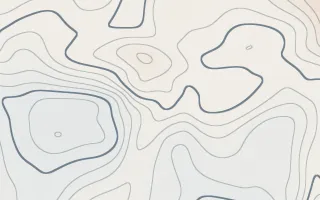
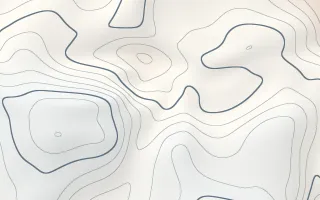
Contour: sharp hairlines at the screen's full density
Contour now renders at the screen's pixel density (up to 2x, like
photos) and sizes its lines in real pixels, so minor contours are true
hairlines and index lines crisp. A faint relief shading lit from the
upper left gives the map depth. Measured at 2x: the same cost as Tarn.

diff --git a/src/backdrop/scenes/index.ts b/src/backdrop/scenes/index.ts
@@ -915,18 +915,26 @@ const contour: Scene = {
   colors: ['#f4f1ea', '#dfe7ec', '#3d5468', '#e9b99c'],
   base: '#f1eee7',
   speed: 0.12,
-  resolution: 0.75,
+  // Hairlines need every pixel the screen has (like a photo).
+  resolution: Math.min(globalThis.devicePixelRatio || 1, 2),
   fragment: /* glsl */ `
 // A topographic map whose land slowly reshapes: contour lines flow, merge
-// and part; every fifth line is drawn bolder, as on a real map.
+// and part; every fifth line is drawn bolder, as on a real map. Drawn at
+// the screen's full pixel density, so the lines are true hairlines.
 
 float terrain(vec2 p, float t) {
   vec2 a = p * 1.1 + vec2(0.05 * t, -0.03 * t);
   vec2 b = p * 1.4 + vec2(-0.04 * t, 0.025 * t) + 7.0;
-  // Smooth land: three octaves, the finest gentle, and a slow warp.
   // Exact noise: thin lines show every kink of the faster texture.
   a += 0.4 * vec2(noise(b), noise(b + 3.0));
   return 0.7 * noise(a) + 0.32 * noise(a * 2.1 + 1.7) + 0.1 * noise(a * 4.3 + 5.1);
+}
+
+// A line of the given width in pixels along the integer values of f.
+float isoline(float f, float px) {
+  float w = fwidth(f);
+  float d = abs(fract(f + 0.5) - 0.5) / max(w, 1e-5);
+  return 1.0 - smoothstep(px * 0.5 - 0.5, px * 0.5 + 0.5, d);
 }
 
 vec3 scene(vec2 uv, float t) {
@@ -935,18 +943,21 @@ vec3 scene(vec2 uv, float t) {
   vec3 col = uColors[0];
   col = mix(col, uColors[1], 0.55 * smoothstep(0.0, -0.4, h));
   col = mix(col, uColors[3], 0.35 * smoothstep(0.05, 0.45, h));
+  // Relief: slopes facing the light from the upper left a touch lighter,
+  // the far side a touch darker, as on a well-made survey map.
+  vec2 slope = vec2(dFdx(h), dFdy(h)) * uResolution.y;
+  float relief = clamp(dot(slope, vec2(0.6, -0.8)) * 0.06, -0.06, 0.06);
+  col *= 1.0 - relief;
 
+  // Pixel widths scale with density, so lines look the same on any screen.
+  float px = max(uResolution.y / 900.0, 1.0);
   float f = h * 15.0;
-  float w = fwidth(f);
-  float line = 1.0 - smoothstep(0.0, w * 1.2, abs(fract(f + 0.5) - 0.5) - w * 0.25);
-  // Index lines: every fifth, bolder.
-  float g = f / 5.0;
-  float gw = fwidth(g);
-  float index = 1.0 - smoothstep(0.0, gw * 1.2, abs(fract(g + 0.5) - 0.5) - gw * 0.9);
-  float ink = max(line * 0.32, index * 0.7);
+  float minor = isoline(f, 1.0 * px);
+  float index = isoline(f / 5.0, 2.2 * px);
+  float ink = max(minor * 0.42, index * 0.78);
   col = mix(col, uColors[2], ink);
   // A little paper grain.
-  col *= 0.985 + 0.03 * noiseFast(uv * 180.0);
+  col *= 0.985 + 0.03 * noiseFast(uv * 260.0);
   return col;
 }
 `,

diff --git a/docs/design/backgrounds.md b/docs/design/backgrounds.md
@@ -13,22 +13,22 @@ Fourteen scenes, in `src/backdrop/scenes/index.ts`. Their order in
 `SCENES` is the order in settings; the first ten also have keyboard
 shortcuts (<kbd>1</kbd>–<kbd>9</kbd>, then <kbd>0</kbd> for the tenth).
 
-| Key | Scene     | What it draws                                                                                                                                                                                          | Tone  | Speed | Resolution | Noise                   |
-| --- | --------- | ------------------------------------------------------------------------------------------------------------------------------------------------------------------------------------------------------ | ----- | ----- | ---------- | ----------------------- |
-| 1   | Tarn      | Light moving through still water: triple domain-warped noise in navy, teal and pale blue. The default and the brand's signature.                                                                       | dark  | 0.22  | 0.5        | exact `fbm` (must)      |
-| 2   | Ember     | Folding purple-pink-orange color waves under animated film grain.                                                                                                                                      | dark  | 0.6   | 0.75       | `noiseFast`             |
-| 3   | Bloom     | Soft pastel mesh gradient pushed around by low-frequency noise.                                                                                                                                        | light | 0.18  | 0.35       | `fbmFast`               |
-| 4   | Wave      | Nine luminous sine ribbons and a glowing sheet over deep blue, after the classic console wave.                                                                                                         | dark  | 0.35  | 1          | none                    |
-| 5   | Aurora    | Northern lights: two tilted curtains with sharp, bright lower edges and streaky rays, teal fading to violet, over a night sky with soft stars.                                                         | dark  | 0.25  | 0.5        | `fbmFast` + `noiseFast` |
-| 6   | Silk      | Slow folds of pale satin: a warped sine height field, lit from the upper left; ice-blue shadows, faintly warm highlights.                                                                              | light | 0.2   | 0.4        | `noiseFast`             |
-| 7   | Sora      | Anime summer sky: towering cumulus painted puff by puff (scalloped discs lit like balls, posterized into three bands, warm rim toward the sun), lit as whole towers, over a deep blue sky with cirrus. | dark  | 0.12  | 0.5        | `noiseFast` + `fbmFast` |
-| 8   | Sakura    | Cherry blossoms: a canopy out of focus overhead (soft branches, two layers of blossom discs), petals falling in three depths, each turning as it falls.                                                | light | 0.5   | 0.5        | `fbmFast`               |
-| 9   | Comet     | Anime twilight: indigo to a warm afterglow, the Milky Way and twinkling stars, a comet with an ion and a dust tail, an occasional shooting star, pink-lit clouds, mountains with town lights.          | dark  | 0.2   | 0.5        | `fbmFast` + `noiseFast` |
-| 0   | Koi       | A koi pond from above: five koi on slow looping paths (bodies sway, tails fan, fins paddle), their shadows on the floor, caustics, lily pads on the surface.                                           | dark  | 0.5   | 0.5        | `noiseFast` + `noise`   |
-| –   | Window    | Rain on a window at night: a city in bokeh behind the glass; beads and sliding drops act as lenses showing it flipped and shrunk, drops leave wiped trails.                                            | dark  | 0.6   | 0.5        | `hash01`                |
-| –   | Fireflies | A moonlit lake: tiered pines on the far shore mirrored in the water, a glittering moon path, mist, reeds in front, fireflies over it all, reflected.                                                   | dark  | 0.35  | 0.5        | `fbmFast` + `noiseFast` |
-| –   | Lumen     | Light through haze: shafts fanning down from an opening above, slowly shifting, with dust that glints only inside the light.                                                                           | dark  | 0.25  | 0.5        | `fbmFast` + `noiseFast` |
-| –   | Contour   | A topographic map whose land slowly reshapes: thin contour lines with every fifth bolder, cool valleys and warm heights on paper.                                                                      | light | 0.12  | 0.75       | exact `noise` (must)    |
+| Key | Scene     | What it draws                                                                                                                                                                                          | Tone  | Speed | Resolution           | Noise                   |
+| --- | --------- | ------------------------------------------------------------------------------------------------------------------------------------------------------------------------------------------------------ | ----- | ----- | -------------------- | ----------------------- |
+| 1   | Tarn      | Light moving through still water: triple domain-warped noise in navy, teal and pale blue. The default and the brand's signature.                                                                       | dark  | 0.22  | 0.5                  | exact `fbm` (must)      |
+| 2   | Ember     | Folding purple-pink-orange color waves under animated film grain.                                                                                                                                      | dark  | 0.6   | 0.75                 | `noiseFast`             |
+| 3   | Bloom     | Soft pastel mesh gradient pushed around by low-frequency noise.                                                                                                                                        | light | 0.18  | 0.35                 | `fbmFast`               |
+| 4   | Wave      | Nine luminous sine ribbons and a glowing sheet over deep blue, after the classic console wave.                                                                                                         | dark  | 0.35  | 1                    | none                    |
+| 5   | Aurora    | Northern lights: two tilted curtains with sharp, bright lower edges and streaky rays, teal fading to violet, over a night sky with soft stars.                                                         | dark  | 0.25  | 0.5                  | `fbmFast` + `noiseFast` |
+| 6   | Silk      | Slow folds of pale satin: a warped sine height field, lit from the upper left; ice-blue shadows, faintly warm highlights.                                                                              | light | 0.2   | 0.4                  | `noiseFast`             |
+| 7   | Sora      | Anime summer sky: towering cumulus painted puff by puff (scalloped discs lit like balls, posterized into three bands, warm rim toward the sun), lit as whole towers, over a deep blue sky with cirrus. | dark  | 0.12  | 0.5                  | `noiseFast` + `fbmFast` |
+| 8   | Sakura    | Cherry blossoms: a canopy out of focus overhead (soft branches, two layers of blossom discs), petals falling in three depths, each turning as it falls.                                                | light | 0.5   | 0.5                  | `fbmFast`               |
+| 9   | Comet     | Anime twilight: indigo to a warm afterglow, the Milky Way and twinkling stars, a comet with an ion and a dust tail, an occasional shooting star, pink-lit clouds, mountains with town lights.          | dark  | 0.2   | 0.5                  | `fbmFast` + `noiseFast` |
+| 0   | Koi       | A koi pond from above: five koi on slow looping paths (bodies sway, tails fan, fins paddle), their shadows on the floor, caustics, lily pads on the surface.                                           | dark  | 0.5   | 0.5                  | `noiseFast` + `noise`   |
+| –   | Window    | Rain on a window at night: a city in bokeh behind the glass; beads and sliding drops act as lenses showing it flipped and shrunk, drops leave wiped trails.                                            | dark  | 0.6   | 0.5                  | `hash01`                |
+| –   | Fireflies | A moonlit lake: tiered pines on the far shore mirrored in the water, a glittering moon path, mist, reeds in front, fireflies over it all, reflected.                                                   | dark  | 0.35  | 0.5                  | `fbmFast` + `noiseFast` |
+| –   | Lumen     | Light through haze: shafts fanning down from an opening above, slowly shifting, with dust that glints only inside the light.                                                                           | dark  | 0.25  | 0.5                  | `fbmFast` + `noiseFast` |
+| –   | Contour   | A topographic map whose land slowly reshapes: hairline contours with every fifth bolder, faint relief shading (light from the upper left), cool valleys and warm heights on paper.                     | light | 0.12  | screen density (≤ 2) | exact `noise` (must)    |
 
 Aurora and Silk were added on 2026-10-13 (PR #14). The owner asked for
 "something new" (they mentioned Luma as a vibe) and loved both. Silk was
@@ -191,6 +191,11 @@ Lessons from the 2026-10-14 eight (each took several rendered rounds):
   background sharper inside drops made them dark holes.
 - **Thin lines need exact noise.** The fast texture noise has kinks its
   bilinear filter can't hide; contour lines showed every one.
+- **Thin lines need real pixels.** `resolution` is per CSS pixel, so 0.75
+  on a 2x screen is 0.375 of its pixels and lines go soft. Contour uses the
+  screen's density (up to 2, like photos) and sizes lines in pixels
+  (`fwidth`), so minor lines are true hairlines. Measured on a 2x screen:
+  the same cost as Tarn (page 5.3%, GPU 10.5%).
 - **Avoid two scenes of the same family.** An ink-marbling scene
   (Suminagashi) came out as a second "lines on paper" next to Contour and
   was swapped for Koi.
